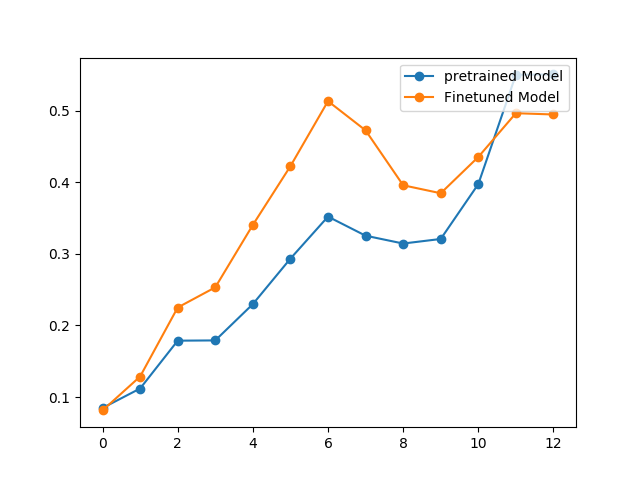
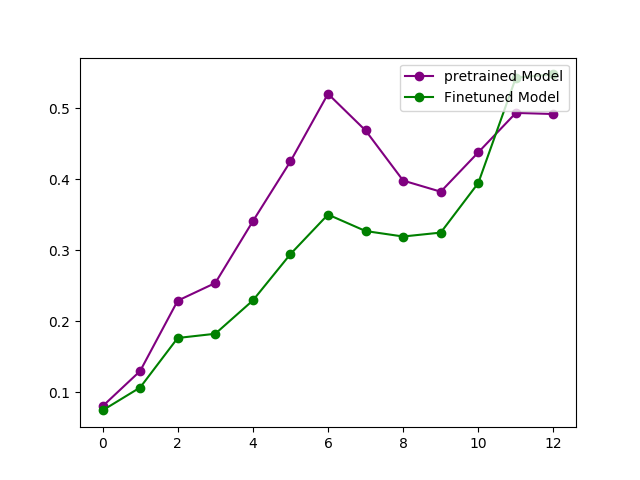
hw4-1 picture

diff --git a/hw4/hw4-1/bert/similarity_student.py b/hw4/hw4-1/bert/similarity_student.py
@@ -65,7 +65,7 @@ def Anisotropy_function(version):
         cos = Anisotropy(samples,i,version)
         record += [(i,cos)]
 
-    plt.plot([x[0] for x in record], [y[1] for y in record], "o-", label="pretrained Model" )
+    plt.plot([x[0] for x in record], [y[1] for y in record], "o-", label="pretrained Model", color="purple")
 
 
     #Finetune version
@@ -77,7 +77,7 @@ def Anisotropy_function(version):
         cos = Anisotropy(samples,i,version)
         record += [(i,cos)]
 
-    plt.plot([x[0] for x in record], [y[1] for y in record], "o-", label="Finetuned Model" )
+    plt.plot([x[0] for x in record], [y[1] for y in record], "o-", label="Finetuned Model", color="green")
     plt.legend(loc='upper right')
     plt.savefig("picture/"+version+"_Anisotropy.png")
     print("finish anisotropy!")
@@ -123,7 +123,7 @@ def IntraSentenceSimilarity_function():
     for i in tqdm(range(0, 13)):
        cos = IntraSentenceSimilarity(samples,i)
        record += [(i,cos)]
-    plt.plot([x[0] for x in record], [y[1] for y in record], "o-",label="pretrained Model" )
+    plt.plot([x[0] for x in record], [y[1] for y in record], "o-",label="pretrained Model", color="purple")
 
     #finetune version
     record = []
@@ -132,7 +132,7 @@ def IntraSentenceSimilarity_function():
     for i in tqdm(range(0, 13)):
        cos = IntraSentenceSimilarity(samples,i)
        record += [(i,cos)]
-    plt.plot([x[0] for x in record], [y[1] for y in record], "o-",label="finetuned Model" )
+    plt.plot([x[0] for x in record], [y[1] for y in record], "o-",label="finetuned Model", color="green" )
     plt.legend(loc='upper right')
     plt.savefig("picture/Intra-sentence-similarity.png")
     print("finish Intra-sentence-similarity!")
@@ -148,7 +148,7 @@ def IntraSentenceSimilarity(data,layer_index):
         """
         Todo: calculate intra-sentence cosine similarity
         """
-        cos = cosine_similarity(x[1],x[2])
+        cos = cosine_similarity(x[1].reshape(1,-1),x[2].reshape(1,-1))
         average_cos += [ np.mean(cos)/x[3] ]
     mean = sum(average_cos) / len(data)
     return mean
@@ -165,8 +165,9 @@ def SelfSimilarity_function():
         self_similarity(samples,i,"pretrained")
         layer_self_similarity = calculate_self_similarity("pretrained",i)
         record += [(i,layer_self_similarity)]
-    plt.plot([x[0] for x in record], [y[1] for y in record], "o-",label="pretrained Model" )
+    plt.plot([x[0] for x in record], [y[1] for y in record], "o-",label="pretrained Model", color="purple" )
 
+    print('finish pretrained SelfSimilarity_function')
     #Finetuned version
     record = []
 
@@ -176,7 +177,7 @@ def SelfSimilarity_function():
         self_similarity(samples,i,"finetune")
         layer_self_similarity = calculate_self_similarity("finetune",i)
         record += [(i,layer_self_similarity)]
-    plt.plot([x[0] for x in record], [y[1] for y in record], "o-",label="finetuned Model" )
+    plt.plot([x[0] for x in record], [y[1] for y in record], "o-",label="finetuned Model", color="green" )
     plt.legend(loc='upper right')
     plt.savefig("picture/Self-similarity.png")
     print("finish Self-similarity!")
@@ -247,7 +248,7 @@ def AnisotropyAdjustedSelfSimilarity_function():
         self_similarity(samples,i,"pretrained")
         layer_self_similarity = calculate_self_similarity("pretrained",i)
         record += [(i,layer_self_similarity - cos)]
-    plt.plot([x[0] for x in record], [y[1] for y in record], "o-",label="pretrained Model" )
+    plt.plot([x[0] for x in record], [y[1] for y in record], "o-",label="pretrained Model", color="purple")
 
     #finetune version
     record = []
@@ -258,7 +259,7 @@ def AnisotropyAdjustedSelfSimilarity_function():
         self_similarity(samples,i,"finetune")
         layer_self_similarity = calculate_self_similarity("finetune",i)
         record += [(i,layer_self_similarity - cos)]
-    plt.plot([x[0] for x in record], [y[1] for y in record], "o-",label="finetuned Model" )
+    plt.plot([x[0] for x in record], [y[1] for y in record], "o-",label="finetuned Model", color="green")
     plt.legend(loc='upper right')
     plt.savefig("picture/Anisotropy-adjusted-self-similarity.png")
     print("finish Anisotropy-adjusted-self-similarity!")
@@ -276,7 +277,7 @@ def AnisotropyAdjustedIntraSentenceSimilarity_function():
        cos = Anisotropy(samples,i,version="intra-sentence-sim")
        IntraSentenceSimilarity_cos = IntraSentenceSimilarity(samples,i)
        record += [(i,IntraSentenceSimilarity_cos - cos)]
-    plt.plot([x[0] for x in record], [y[1] for y in record], "o-",label="pretrained Model" )
+    plt.plot([x[0] for x in record], [y[1] for y in record], "o-",label="pretrained Model", color="purple")
 
     #Finetuned version
     record = []
@@ -286,7 +287,7 @@ def AnisotropyAdjustedIntraSentenceSimilarity_function():
        cos = Anisotropy(samples,i,version="intra-sentence-sim")
        IntraSentenceSimilarity_cos = IntraSentenceSimilarity(samples,i)
        record += [(i,IntraSentenceSimilarity_cos - cos)]
-    plt.plot([x[0] for x in record], [y[1] for y in record], "o-",label="finetuned Model" )
+    plt.plot([x[0] for x in record], [y[1] for y in record], "o-",label="finetuned Model", color="green" )
     plt.legend(loc='upper right')
     plt.savefig("picture/Anistropy-adjusted-Intra-sentence-similarity.png")
     print("finish Anistropy-adjusted-Intra-sentence-similarity!")
@@ -379,11 +380,11 @@ def AnisotropyAdjustedMEV_function():
 if __name__ == "__main__":
 
     #Question 2
-    Anisotropy_function(version="self-sim")
-    Anisotropy_function(version="intra-sentence-sim")
+    #Anisotropy_function(version="self-sim")
+    #Anisotropy_function(version="intra-sentence-sim")
 
     #Question 3
-    SelfSimilarity_function()
+    #SelfSimilarity_function()
     IntraSentenceSimilarity_function()
 
     #Question 4

diff --git a/hw4/hw4-1/bert/generate-similarity-data.py b/hw4/hw4-1/bert/generate-similarity-data.py
@@ -121,9 +121,9 @@ def evaluate(args, model, tokenizer, prefix=""):
                     new_dataset += [copy.deepcopy(sample)]
 
     # if u want to extract pretrained model embedding use name: pretrained-example-data.p  and comment line 126
-    pickle.dump(new_dataset,open("xnli-pretrained-example-data.p","wb"))
+    #pickle.dump(new_dataset,open("xnli-pretrained-example-data.p","wb"))
     # if u want to extract pretrained model embedding use name: finetune-example-data.p and comment line 124
-    # pickle.dump(new_dataset,open("xnli-finetune-example-data.p","wb"))
+    pickle.dump(new_dataset,open("xnli-finetune-example-data.p","wb"))
 
     return 
 
